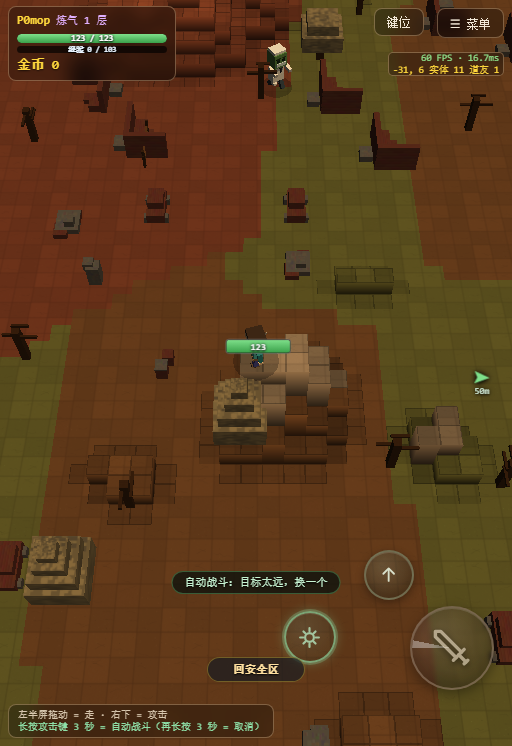
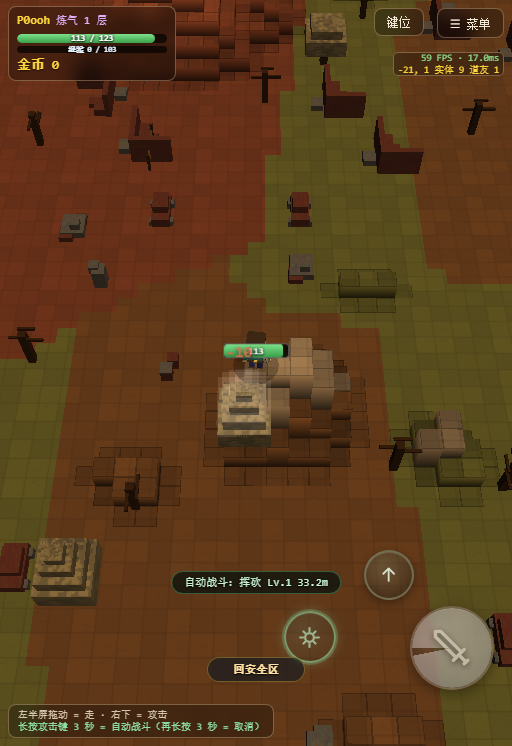
hold the facing for the whole swing, not the first third
The user was right that the window was too short. The attack animation runs about
eighty-six hundredths of a second, and I had locked the facing for thirty-two, so the last
half second - the recovery, where the character is still visibly mid-swing - turned freely
and undid the whole thing.

The lock now covers the animation, with the hard deadline unchanged so a stalled animation
still cannot leave the player unable to turn.

diff --git a/web/core/game.js b/web/core/game.js
@@ -5469,8 +5469,8 @@ function frame(ts) {
          自动战斗是 AI 主动改朝向 ✗ 手动的朝向本来是对的 ✓
          但【挥刀动画还在播】时人已经转身了 ✓
          → 挥到一半朝向变了 180° ✗ 看着就像在打后面 ✓
-       ★ 修：挥刀前 0.32 秒（= 真正"挥出去"的那段）锁住朝向 ✓
-         之后是收刀动作 ✗ 可以自由转向 ✓ 不会影响手感 ✓ */
+       ★ 修：整个挥刀动画期间锁住朝向 ✓（round370 从 0.32 扩到 0.86 秒）
+         动画播完就能自由转向 ✓ */
     /* ★★★ round369（用户："有时候人物动画无法转向"）★★★
        ★ 根因：上一版用 atkT 判"在挥刀"✗
          而 atkT 在某些路径下【不会推进】（被打断/死亡/自动战斗切阶段 ✓）
@@ -5578,7 +5578,12 @@ function frame(ts) {
   if (dead) { atkHeld = false; }   // ★ 倒下了不能挥剑 ✓
   if (atkHeld && atkCd <= 0 && atkT < 0 && !dead) {
     atkT = 0; atkCd = (G.ATK_CD || 0.62);
-    _yawLockUntil = performance.now() + 320;   // ★ 挥刀前 0.32 秒锁朝向 ✓
+    /* ★ round370（用户："是不是 0.32 秒太短了"）
+       ★ 对：挥刀动画本身约 0.86 秒 ✗ 只锁 0.32 秒的话
+         后面半秒是收刀动作 ✗ 那段时间人就转身了 ✓ 看着还是像打后面 ✓
+       ★ 现在锁满整个挥刀动画（0.86 秒 ✓）
+         ★ 仍有时间上限 ✗ 不会因为动画状态异常而永久卡死 ✓ */
+    _yawLockUntil = performance.now() + 860;
     /* ★★★ round310（P1 破坏）：挥刀【先判地形】✗ 方案 §5.1 ✓
        规则：正前方一格（1 格远 + 扇形内）有比脚下高的地形 → 打它 ✓
        ★ 为什么先判地形：不然站在墙前面打僵尸 ✗ 墙永远拆不掉 ✓
